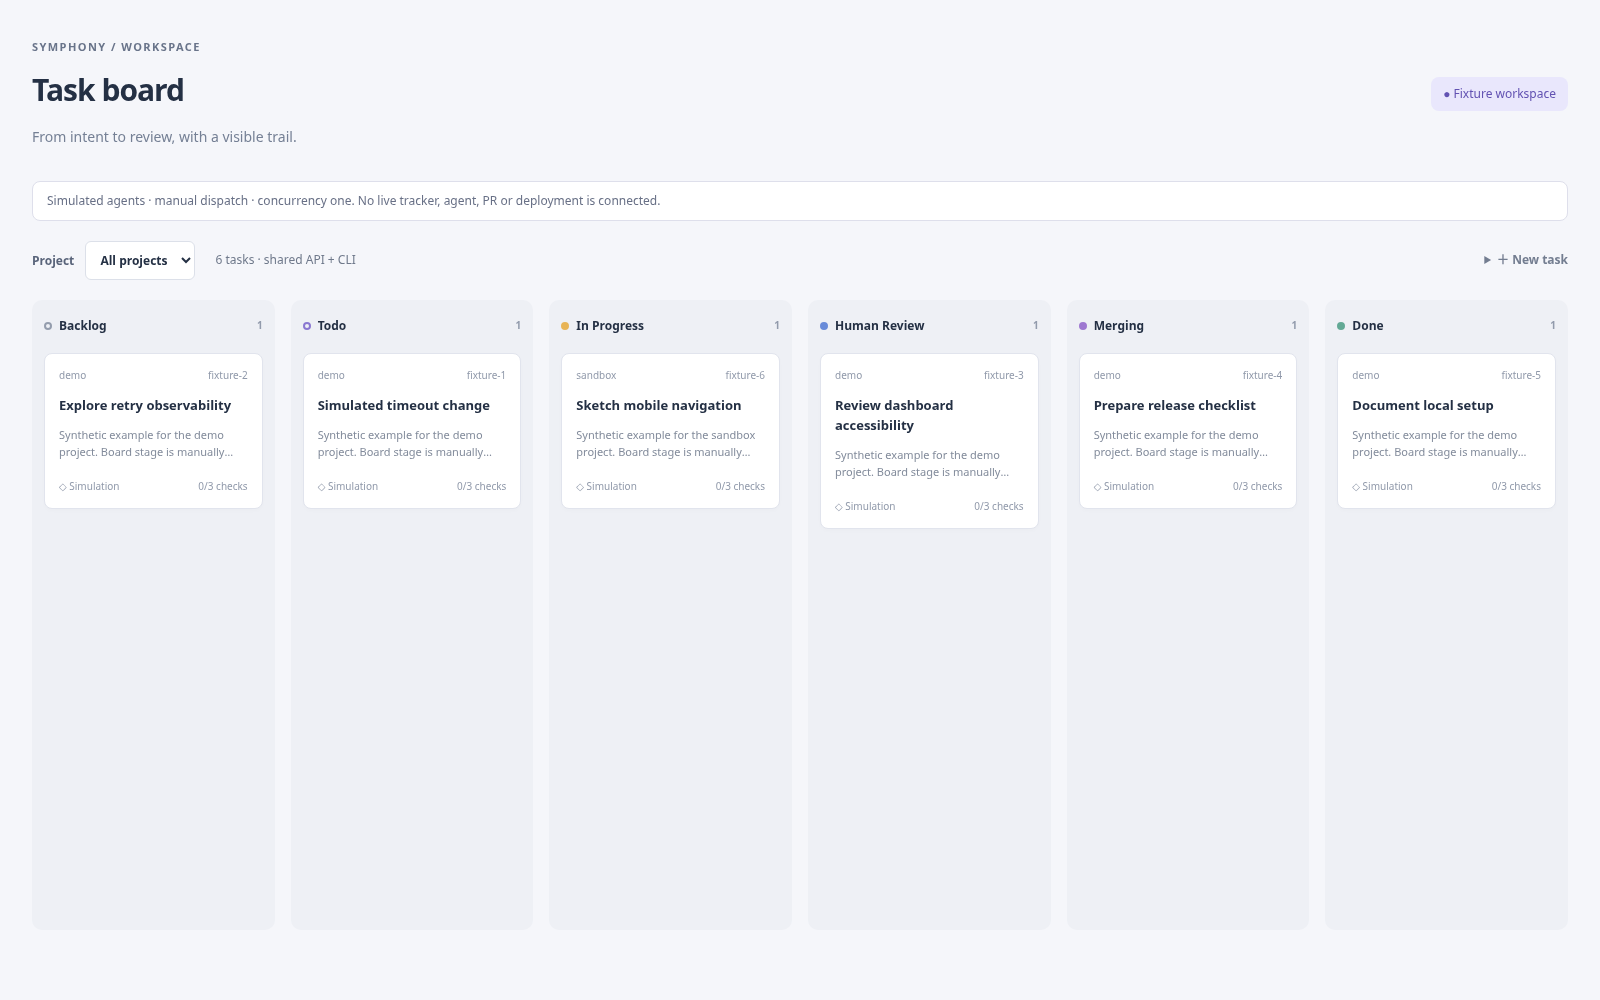
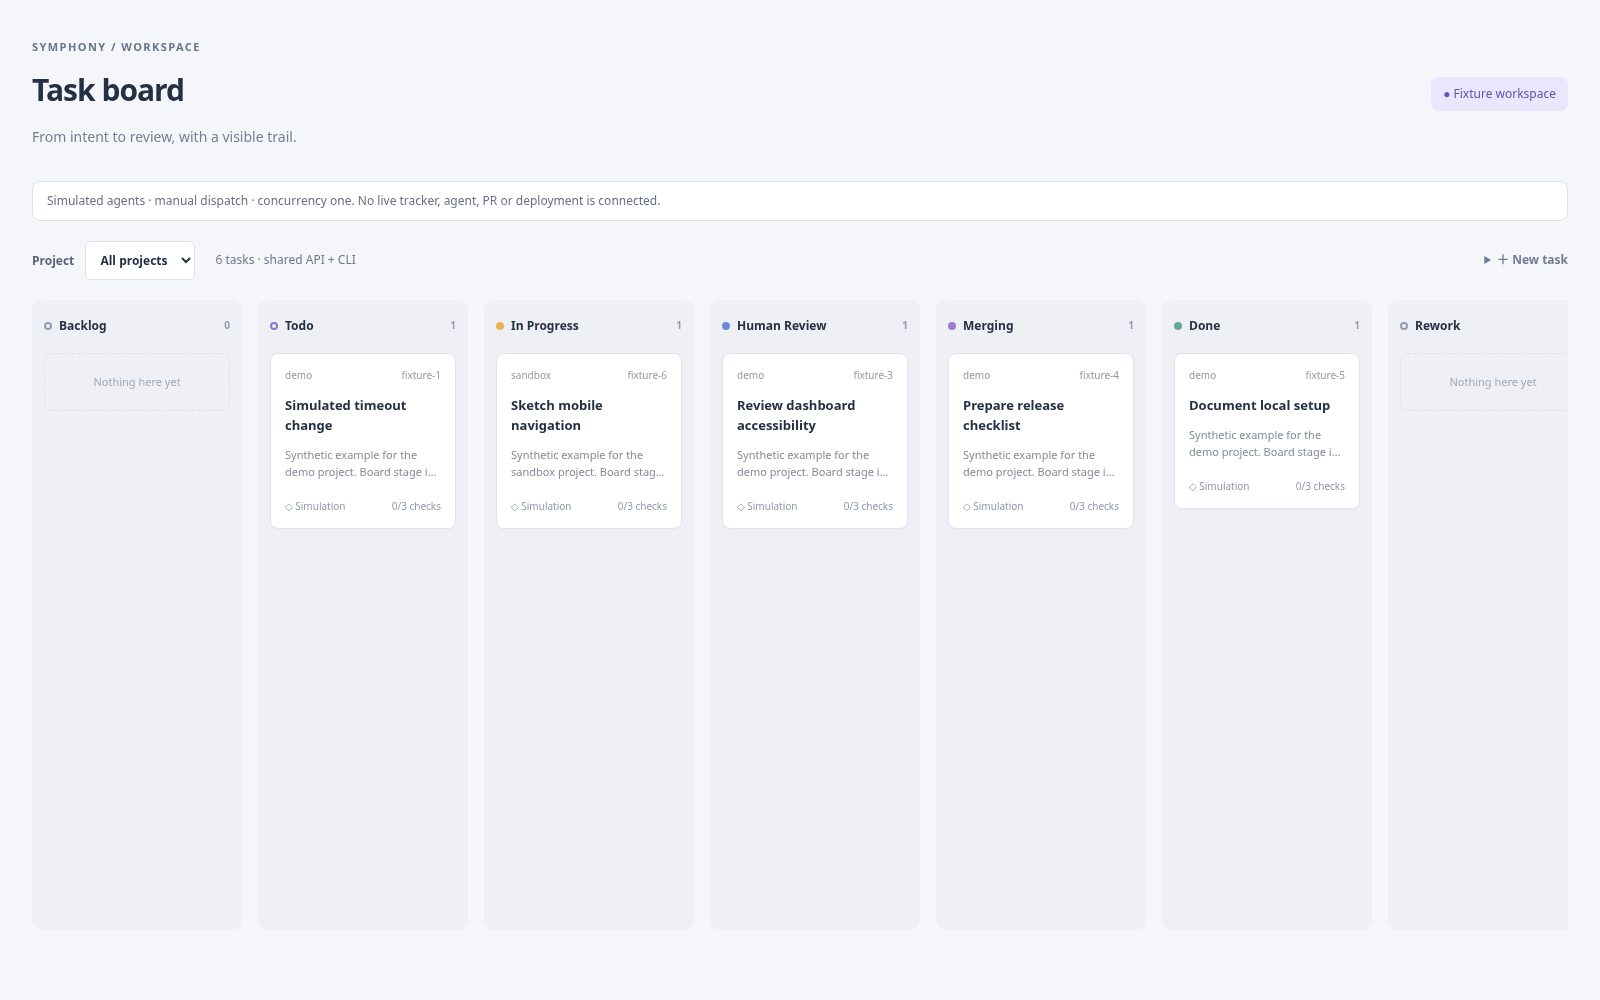
Add revision-checked drag workflow and expanded task detail

diff --git a/elixir/priv/static/dashboard.css b/elixir/priv/static/dashboard.css
@@ -490,7 +490,7 @@ body:has(.work-board) { background: #f5f6fa; color: #243044; }
 .new-task { margin-left:auto; position:relative; color:#6555c4; }
 .new-task summary { cursor:pointer; font-weight:700; }
 .new-task form { position:absolute; z-index:5; right:0; width:290px; background:white; border:1px solid #dde0e9; box-shadow:0 12px 40px #20243b18; padding:20px; border-radius:10px; }
-.board-columns { display:grid; grid-template-columns:repeat(6,minmax(210px,1fr)); gap:16px; overflow-x:auto; padding-bottom:20px; min-height:65vh; }
+.board-columns { display:grid; grid-auto-flow:column; grid-auto-columns:minmax(210px,1fr); gap:16px; overflow-x:auto; padding-bottom:20px; min-height:65vh; }
 .board-column { border-radius:10px; background:#eef0f5; padding:12px; }
 .board-column h2 { font-size:12px; font-weight:650; display:flex; align-items:center; gap:7px; margin:5px 0 18px; white-space:nowrap; }
 .board-column h2 small { margin-left:auto; color:#929bac; }
@@ -534,6 +534,9 @@ body:has(.work-board) { background: #f5f6fa; color: #243044; }
 .activity-event { padding:10px 0; border-bottom:1px solid #f0f1f5; }
 .activity-event summary time { display:block; font-size:10px; color:#a0a7b4; padding:4px 0 0 16px; }
 .board-error { background:#fff0ed; color:#b25749; border:1px solid #f3d1cb; padding:12px; border-radius:7px; }
-@media (max-width:700px) { .app-shell:has(.work-board) { padding:18px 14px; } .board-header { align-items:flex-start; } .board-header h1 { font-size:25px; } .fixture-label { font-size:9px; padding:7px; } .board-toolbar { flex-wrap:wrap; gap:12px; } .board-toolbar > span { display:none; } .board-columns { grid-template-columns:repeat(6,235px); gap:10px; } .task-detail { padding:22px 20px; } .new-task form { width:min(290px,calc(100vw - 55px)); } }
+@media (max-width:700px) { .app-shell:has(.work-board) { padding:18px 14px; } .board-header { align-items:flex-start; } .board-header h1 { font-size:25px; } .fixture-label { font-size:9px; padding:7px; } .board-toolbar { flex-wrap:wrap; gap:12px; } .board-toolbar > span { display:none; } .board-columns { grid-auto-columns:235px; gap:10px; } .task-detail { padding:22px 20px; } .new-task form { width:min(290px,calc(100vw - 55px)); } }
 .task-detail > .board-error { position:sticky; top:0; z-index:12; box-shadow:0 3px 12px #44251c12; }
 .work-board button[phx-click="reload-draft"] { background:transparent; color:#6f6598; border-color:#e4dfef; margin-top:8px; }
+
+.task-detail.full-page { width:100%; padding-left:max(24px,calc((100vw - 1000px)/2)); padding-right:max(24px,calc((100vw - 1000px)/2)); }
+.task-card[draggable] { cursor:grab; }

diff --git a/docs/BOARD_TEST_RESULTS.md b/docs/BOARD_TEST_RESULTS.md
@@ -7,8 +7,8 @@ loopback-only relay; there was no public endpoint.
 
 ## Scope delivered
 
-An original six-column board (Backlog, Todo, In Progress, Human Review, Merging,
-Done), multiple tasks, project filtering, task creation and direct detail links.
+An original nine-column board (Backlog, Todo, In Progress, Human Review, Merging,
+Done, Rework, Canceled and Duplicate), multiple tasks, project filtering, task creation and direct detail links.
 Details provide manual stage transitions, editable checklists, approval/run
 controls, persisted activity and user-supplied HTTPS PR/walkthrough links.
 UI, API and CLI use the existing service and orchestrator. No competing scheduler,
@@ -19,12 +19,12 @@ real agent execution, external write or deployment was added.
 | Check | Result |
 | --- | --- |
 | Full `make all` | Passed, including format, specs, strict Credo and Dialyzer |
-| ExUnit | 320 tests, 0 failures, 6 opt-in live tests skipped |
+| ExUnit | 321 tests, 0 failures, 6 opt-in live tests skipped |
 | Measured coverage | 100% with existing repository exclusions unchanged |
 | Dialyzer | 0 errors |
 | Python CLI regression suite | 12 tests passed, including local HTTP argument checks and board command payloads |
 | HTTP/CLI/restart smoke | Passed against a fresh isolated database on port 4001 |
-| Desktop Chromium | Six columns/cards, project filter, detail navigation, start/stop/hold/retry, plan edit/check, evidence link and activity disclosure passed |
+| Desktop Chromium | Nine columns, drag/drop with persisted counts, project filter, expanded detail navigation, start/stop/hold/retry, plan edit/check, evidence link and activity disclosure passed |
 | Mobile-sized Chromium (390 × 844) | Cross-browser persisted state, board/detail views, task creation and stage move passed |
 | Concurrent Chromium clients | Stale plan rejected; draft and original revision preserved; explicit reload and reviewed save passed |
 | Mobile failure feedback | Invalid plan, invalid link and ineligible run alerts visible inside the active panel; viewport and occlusion checks passed |
@@ -76,7 +76,7 @@ persisted state, creates another task and moves it to Todo.
 
 These are browser captures, not designs or mockups. They contain only synthetic
 tasks and an explicitly supplied repository PR link. No login token appears.
-The first five captures show the initial board; the last two capture the
+The first five captures show the expanded workflow board; the last two capture the
 concurrent-edit and mobile-feedback fixes. Older single-task screenshots remain
 historical evidence in `screenshots/manual-demo`.
 
@@ -92,8 +92,8 @@ reload takes effect, and mobile errors are not obscured by the full-screen panel
 This is a functional fixture board, **not full parity with the Linear video**.
 Plans are manually maintained; the three-second worker is a fixed simulator.
 Tracker import, actual agent-generated plans, automatic PR creation/status sync,
-drag-and-drop, Calendar/Google Tasks, tenant permissions and hosted phone access
-are not implemented or verified. Column transitions use a selector. No real issue
+Calendar/Google Tasks, tenant permissions and hosted phone access
+are not implemented or verified. Column transitions use drag-and-drop or an accessible selector. No real issue
 was closed, PR merged or production release verified.
 
 Project selection is a filter under one shared operator identity. Separate
@@ -107,3 +107,24 @@ are interrupted on restart, not automatically adopted or replayed. The suite
 checks expiry handling but does not wait two minutes to verify real wall-clock
 expiry end to end. Real-device Safari/accessibility audits and production load
 measurements remain outside the verified scope.
+
+## README video comparison
+
+This comparison uses the observed behavior supplied by the independent reviewer,
+not a claim of pixel or runtime parity with Linear.
+
+| Observed video behavior | Current implementation | Remaining dependency or gap |
+| --- | --- | --- |
+| Drag cards and update counts | Desktop native drag/drop calls shared `move`; counts update after persisted success | Touch uses stage selector; no optimistic movement |
+| Backlog/Todo/In Progress/Human Review/Merging/Done, Rework/Canceled/Duplicate | Nine persisted stages, available through UI/API/CLI | No automatic real merge or release verification |
+| Full-page task detail | Expand task toggles a full-width view with the existing shared task state | Original Symphony styling, not Linear parity |
+| Authored nested Plan, Acceptance Criteria, Validation in activity | Editable flat checklist, description and durable command activity | No rich authored activity document or nested sections |
+| GitHub PR and walkthrough | HTTPS links supplied by operator and labeled unverified | No automatic PR creation/status synchronization; no embedded media |
+| Replies and comments | Not implemented | Requires persisted authored comments, identity semantics and moderation/resource limits |
+| Agent workflow and merge completion | Fixed simulator moves its own task to Human Review; operators may move Merging/Done | Real agent/tracker/PR integration and verified merge transitions are not connected |
+
+A safe next increment would add bounded authored sections/comments to the shared
+service, snapshot schema, HTTP and CLI before the UI. Real PR synchronization
+then needs a repository mapping, authorized connector, webhook/poll ownership and
+reconciliation tests. Arbitrary media is currently linked rather than embedded;
+a future embed needs explicit provider handling and content/security controls.

diff --git a/docs/MANUAL_DEMO_GUIDE.md b/docs/MANUAL_DEMO_GUIDE.md
@@ -179,8 +179,11 @@ integration. OAuth consent and mutations require explicit authorization.
 
 This delivers the requested board/detail workflow, **not full parity with the
 Linear video**: there is no real agent plan stream, automatic PR creation/status
-sync, drag-and-drop, tracker import, multi-user permissions, or hosted mobile URL.
-Status transitions use the accessible detail-panel selector. Existing dependency
+sync, tracker import, multi-user permissions, or hosted mobile URL.
+Desktop cards can be dragged to another stage; the accessible detail-panel
+selector provides the keyboard/mobile alternative. Both use revision checks and
+reject changes while a task has an active run. Canceled and Duplicate, like Done,
+reject execution; Rework remains executable. Expand task opens a full-page detail. Existing dependency
 advisories and disabled endpoint origin checking still require review before any
 remote exposure. No production behavior or full two-minute expiry timing is claimed.
 

diff --git a/elixir/README.md b/elixir/README.md
@@ -422,7 +422,8 @@ lets separate local instances use distinct ports; each also needs its own databa
 and token. The demo remains loopback-only and never runs real agents.
 
 The manual fixture now provides a multi-task board at `/tasks`, with stages from
-Backlog through Done, project filtering, detail panels, plans/checklists, activity
+Backlog through Done plus Rework/Canceled/Duplicate, revision-checked drag-and-drop,
+project filtering, expandable detail panels, plans/checklists, activity
 and HTTPS evidence links. `cli/symphonyctl tasks board --json` exposes the same
 state. `tasks create`, `move`, `plan`, `check` and `link` use the shared command
 handler with revision/idempotency checks. Tasks have separate attempt budgets;

diff --git a/README.md b/README.md
@@ -51,7 +51,7 @@ For the isolated Elixir manual fixture UI, CLI and verification steps, see the
 [manual demo guide](docs/MANUAL_DEMO_GUIDE.md). Separate demo instances can use
 distinct local ports, databases and tokens; this is not multi-tenant hosting.
 
-The Elixir fixture UI now includes a six-stage, multi-task board with project
+The Elixir fixture UI now includes a nine-stage, multi-task board with project
 filtering, task details, editable checklists, activity and user-supplied evidence
 links. Browser, CLI and API use the same durable service. Execution remains an
 explicitly labeled simulator; real tracker/agent and PR synchronization are not
